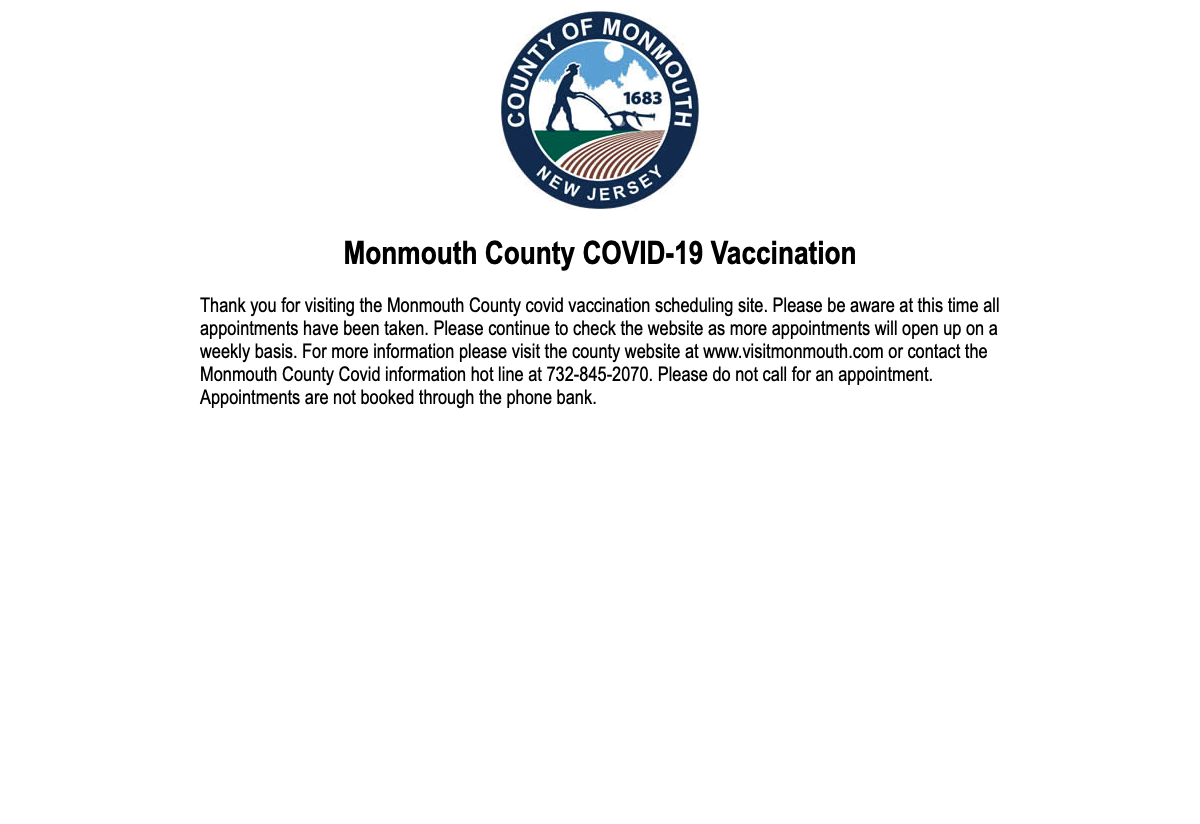
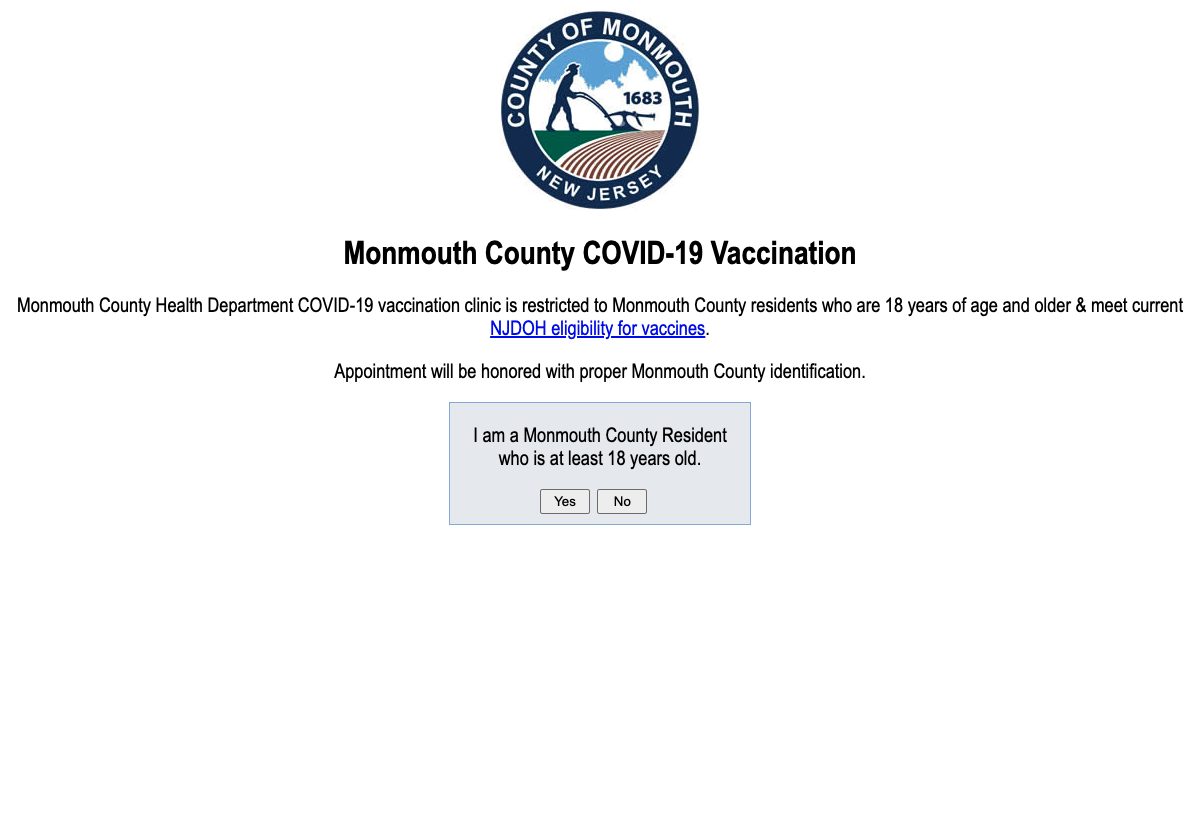
Monmouth working

Changed region(s): [[0.0, 0.3641, 0.9867, 0.6371]]

diff --git a/Monmouth.py b/Monmouth.py
@@ -52,22 +52,19 @@ while True:
 
 
         try:
-            msg = driver.find_element_by_xpath('//*[@id="Panel2"]/p')
-            if 'at this time all appointments have been taken.' not in msg.text:
-                driver.get_screenshot_as_file("Screenshots/Monmouthcapture.png")
+            msg = driver.find_element_by_xpath('//*[@id="Button1"]')
+                     
+            driver.get_screenshot_as_file("Screenshots/Monmouthcapture.png")
 
-                status = 'Monmouth county residents only: Monmouth County portal open at this link, https://www.co.monmouth.nj.us/page.aspx?ID=1932 \n\nClick Schedule a COVID-19 Vaccine and follow the prompts on screen.'
-                imagePath = "Screenshots/Monmouthcapture.png"
-                if time.time() - Tweet_Timer > 150 or Tweet_Timer == 0:
-
-                    print("Appointment found.")
-                    #api.update_with_media(imagePath, status)
-                    Tweet_Timer = time.time()
-                    playsound('Beep.m4a')
+            status = 'Monmouth county residents only: Monmouth County portal open at this link, https://www.co.monmouth.nj.us/page.aspx?ID=1932 \n\nClick Schedule a COVID-19 Vaccine and follow the prompts on screen.'
+            imagePath = "Screenshots/Monmouthcapture.png"
+            
+            print("Portal Open.")
+            api.update_with_media(imagePath, status)
+            break 
  
 
         except:
-            #print("Message not found")
             continue
  
 
